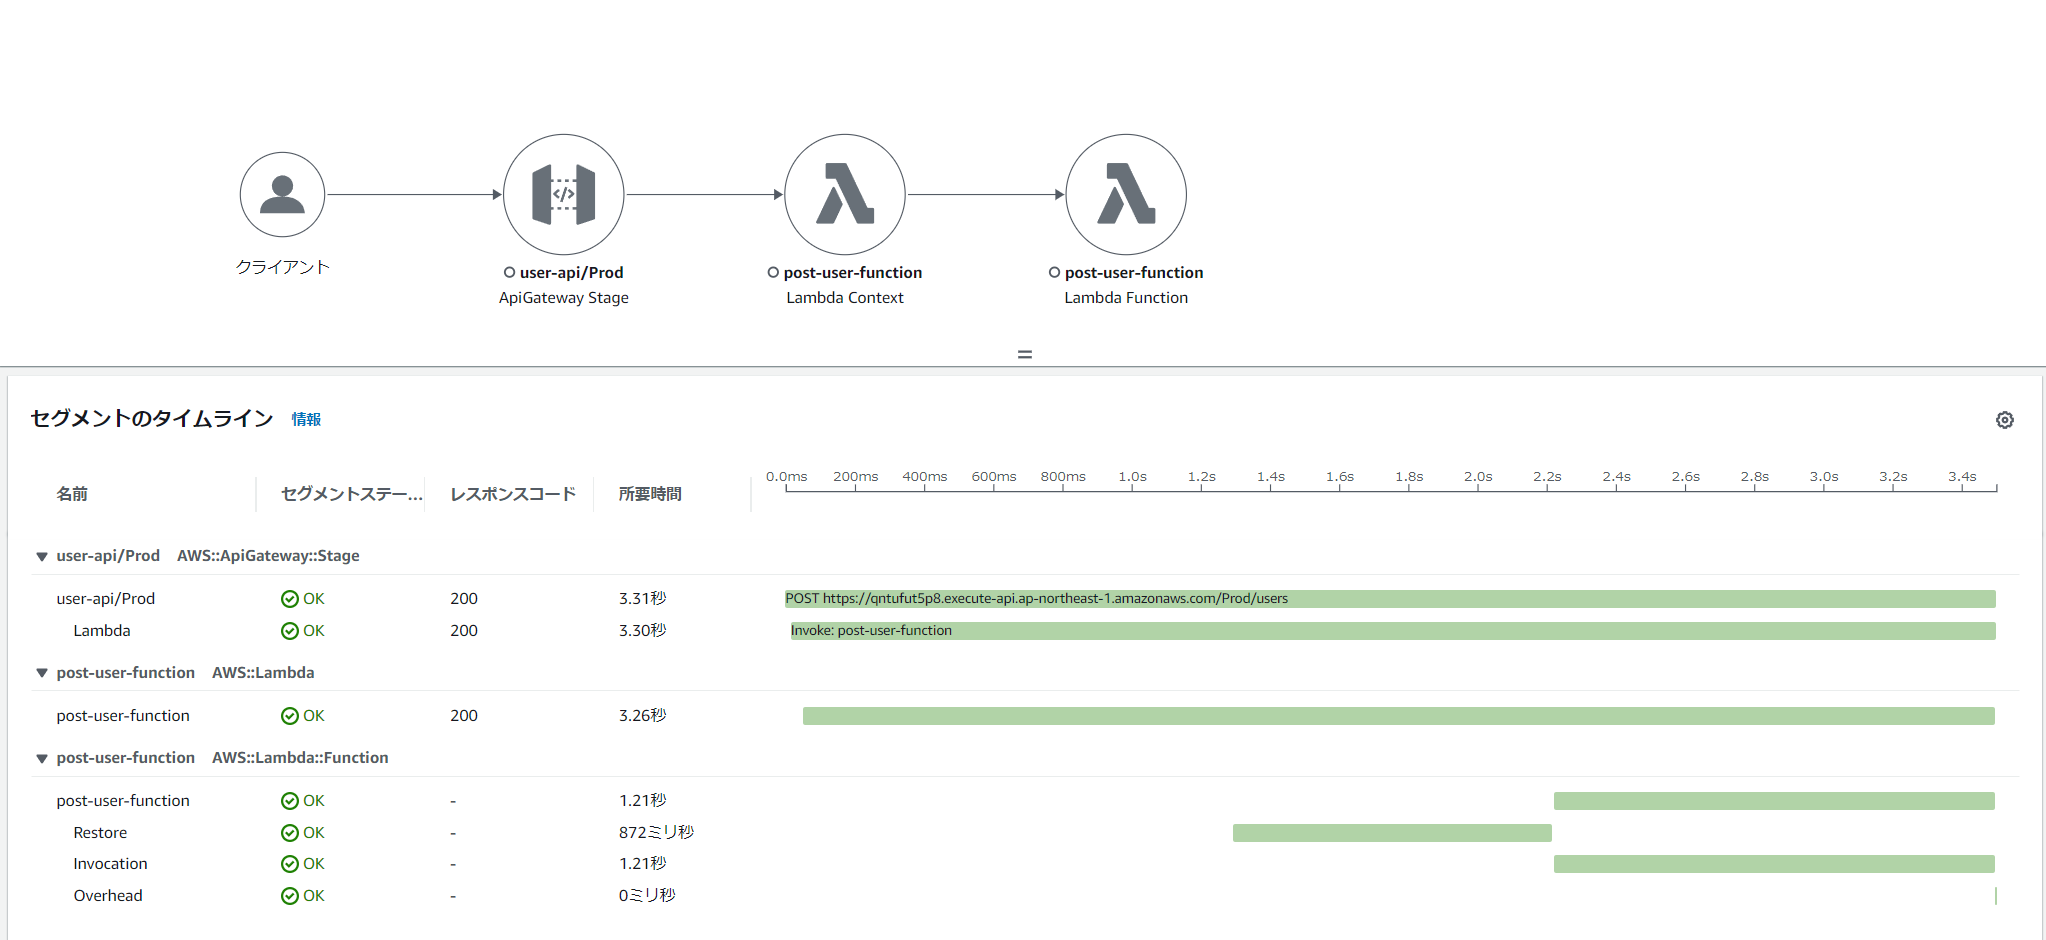
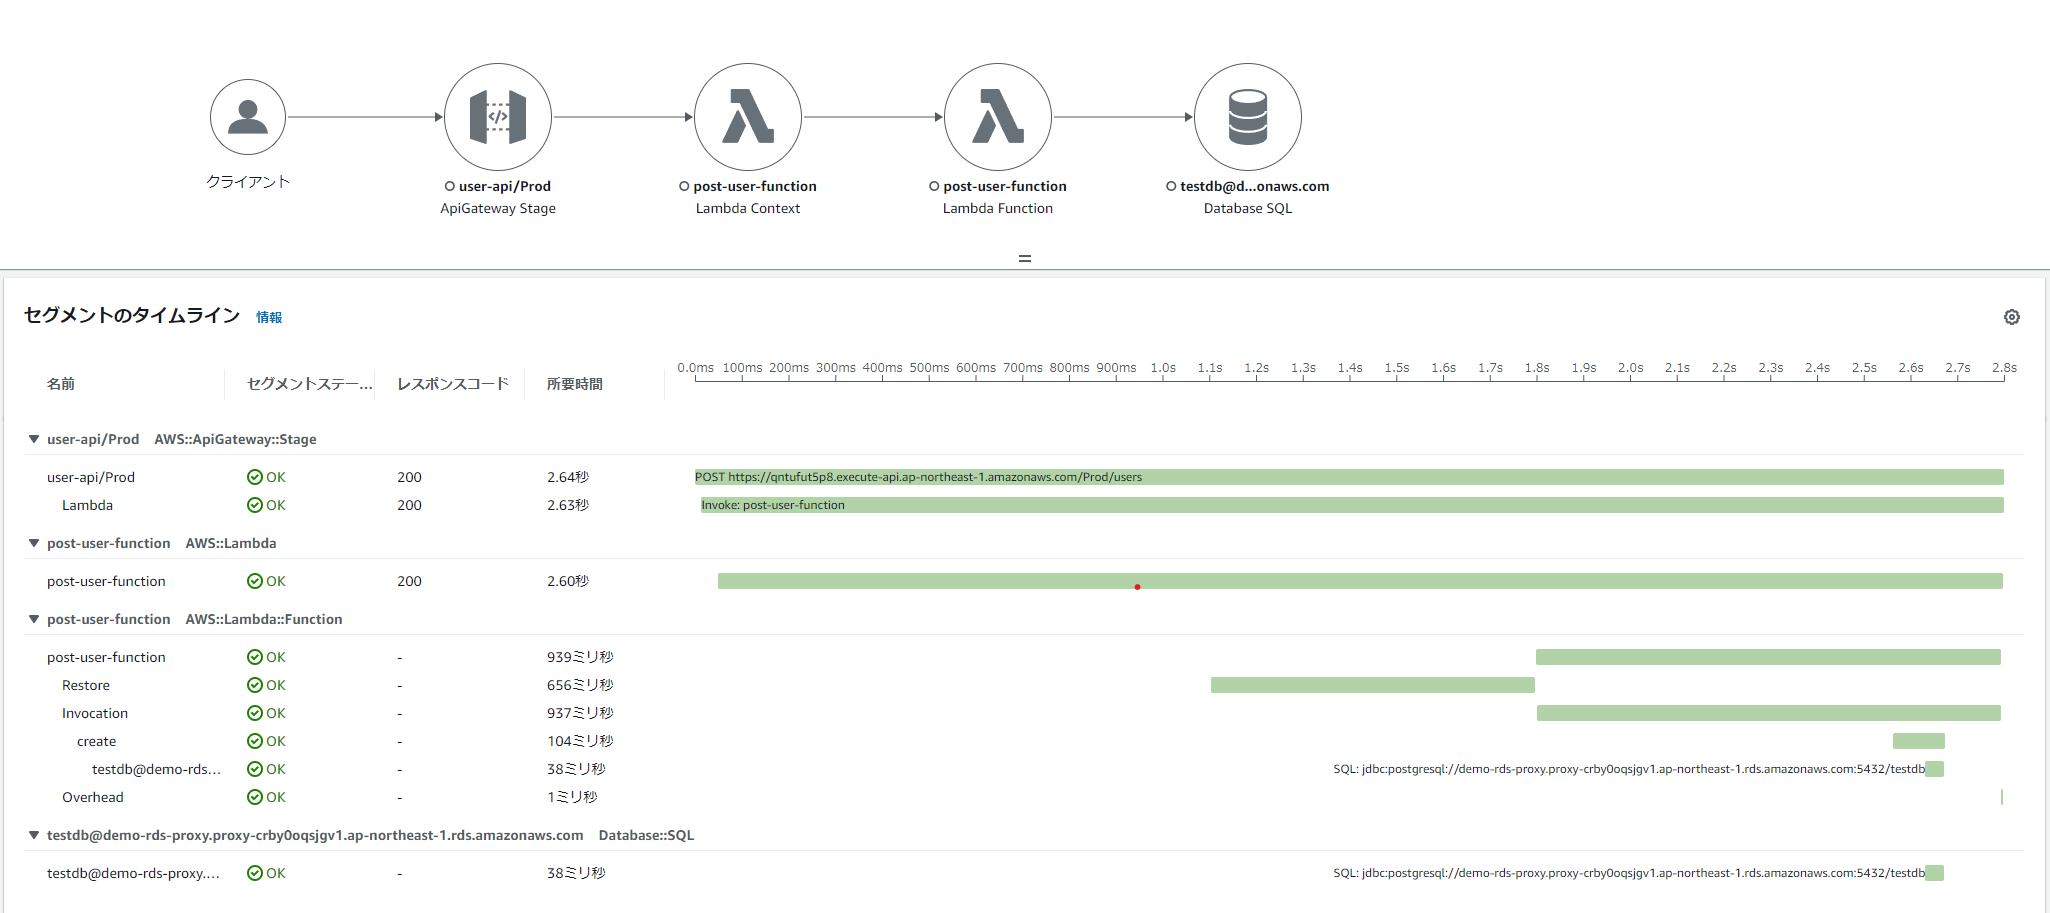
X-Ray対応

diff --git a/src/main/java/com/example/fw/common/dynamodb/config/DynamoDBProdConfig.java b/src/main/java/com/example/fw/common/dynamodb/config/DynamoDBProdConfig.java
@@ -25,17 +25,14 @@ public class DynamoDBProdConfig {
     public DynamoDbClient dynamoDbClient(DynamoDBConfigurationProperties dynamoDBConfigurationProperties) {
         Region region = Region.of(dynamoDBConfigurationProperties.getRegion());
         return DynamoDbClient.builder().region(region)
-                
-                //TODO: 現状　SQLトレース対応しようとすると、X-Rayでエラーが出るので対応検討中
-                //java.lang.ClassCastException: class com.amazonaws.xray.entities.SegmentImpl cannot be cast to class com.amazonaws.xray.entities.Subsegment 
                 // 個別にDynamoDBへのAWS SDKの呼び出しをトレーシングできるように設定
-                //.overrideConfiguration(
-                //        ClientOverrideConfiguration.builder().addExecutionInterceptor(new TracingInterceptor()).build())
+                .overrideConfiguration(
+                        ClientOverrideConfiguration.builder().addExecutionInterceptor(new TracingInterceptor()).build())
                 .build();
     }
 
-    //TODO: DynamoDbAsyncClient、DynamoDbEnhancedAsyncClientを使った非同期プログラミングも検討する    
-    // https://github.com/aws-samples/aws-lambda-java-workshop/blob/main/labs/unicorn-stock-broker/src/main/java/com/unicorn/broker/data/TransactionRepository.java  
+    // TODO: DynamoDbAsyncClient、DynamoDbEnhancedAsyncClientを使った非同期プログラミングも検討する
+    // https://github.com/aws-samples/aws-lambda-java-workshop/blob/main/labs/unicorn-stock-broker/src/main/java/com/unicorn/broker/data/TransactionRepository.java
     // https://docs.aws.amazon.com/ja_jp/sdk-for-java/latest/developer-guide/ddb-en-client-getting-started-dynamodbTable.html
 
 }

diff --git a/src/main/java/com/example/backend/XRayConfig.java b/src/main/java/com/example/backend/XRayConfig.java
@@ -1,22 +1,27 @@
 package com.example.backend;
 
+import org.springframework.context.annotation.Bean;
 import org.springframework.context.annotation.Configuration;
 import org.springframework.context.annotation.Import;
 
-import com.amazonaws.xray.AWSXRayRecorderBuilder;
+import com.example.fw.common.aspect.XRayAspect;
 import com.example.fw.common.jdbc.config.XRayJDBCConfig;
+
 
 /**
  * X-Rayの設定クラス
  *
  */
-
-//TODO: 現状　SQLトレース対応しようとすると、X-Rayでエラーが出るので対応検討中
-//java.lang.ClassCastException: class com.amazonaws.xray.entities.SegmentImpl cannot be cast to class com.amazonaws.xray.entities.Subsegment 
-
-// X-Ray機能の追加、JDBCのX-Rayトレース機能の追加
-//@Import({ XRayJDBCConfig.class })
+// JDBCのX-Rayトレース機能の追加
+@Import({ XRayJDBCConfig.class })
 @Configuration
 public class XRayConfig {
 
+    /**
+     * AWS X-RayのAOP設定
+     */
+    @Bean
+    public XRayAspect xRayAspect() {
+        return new XRayAspect();
+    }
 }

diff --git a/src/main/java/com/example/backend/app/handler/user/UserGetAPIHandler.java b/src/main/java/com/example/backend/app/handler/user/UserGetAPIHandler.java
@@ -6,7 +6,6 @@ import org.springframework.stereotype.Component;
 
 import com.amazonaws.services.lambda.runtime.events.APIGatewayProxyRequestEvent;
 import com.amazonaws.services.lambda.runtime.events.APIGatewayProxyResponseEvent;
-import com.amazonaws.xray.AWSXRay;
 import com.example.backend.app.handler.common.APIUtil;
 import com.example.backend.domain.model.User;
 import com.example.backend.domain.service.user.UserService;
@@ -25,9 +24,7 @@ public class UserGetAPIHandler implements Function<APIGatewayProxyRequestEvent, 
     private final ObjectMapper objectMapper;
 
     @Override
-    public APIGatewayProxyResponseEvent apply(APIGatewayProxyRequestEvent request) {
-        AWSXRay.beginSegment("user-get-api");
-        
+    public APIGatewayProxyResponseEvent apply(APIGatewayProxyRequestEvent request) {       
         String userId = request.getPathParameters().get("user_id");
         // サービスの実行
         User user = userService.findOne(userId);

diff --git a/src/main/java/com/example/backend/app/handler/user/UserPostAPIHandler.java b/src/main/java/com/example/backend/app/handler/user/UserPostAPIHandler.java
@@ -5,7 +5,6 @@ import java.util.function.Function;
 import org.springframework.stereotype.Component;
 
 import com.amazonaws.services.lambda.runtime.events.APIGatewayProxyResponseEvent;
-import com.amazonaws.xray.AWSXRay;
 import com.example.backend.app.handler.common.APIUtil;
 import com.example.backend.domain.model.User;
 import com.example.backend.domain.service.user.UserService;
@@ -24,9 +23,7 @@ public class UserPostAPIHandler implements Function<UserResource, APIGatewayProx
     private final ObjectMapper objectMapper;
 
     @Override
-    public APIGatewayProxyResponseEvent apply(UserResource resource) {
-        AWSXRay.beginSegment("user-post-api");
-        
+    public APIGatewayProxyResponseEvent apply(UserResource resource) {        
         User user = User.builder().name(resource.getUserName()).build();
         // サービスの実行
         User newUser = userService.create(user);

diff --git a/src/main/java/com/example/backend/app/handler/todo/TodoGetAPIHandler.java b/src/main/java/com/example/backend/app/handler/todo/TodoGetAPIHandler.java
@@ -6,7 +6,6 @@ import org.springframework.stereotype.Component;
 
 import com.amazonaws.services.lambda.runtime.events.APIGatewayProxyRequestEvent;
 import com.amazonaws.services.lambda.runtime.events.APIGatewayProxyResponseEvent;
-import com.amazonaws.xray.AWSXRay;
 import com.example.backend.app.handler.common.APIUtil;
 import com.example.backend.domain.model.Todo;
 import com.example.backend.domain.service.todo.TodoService;
@@ -26,8 +25,7 @@ public class TodoGetAPIHandler implements Function<APIGatewayProxyRequestEvent, 
 
     @Override
     public APIGatewayProxyResponseEvent apply(APIGatewayProxyRequestEvent request) {
-        AWSXRay.beginSegment("todo-get-api");
-        
+       
         String todoId = request.getPathParameters().get("todo_id");
         // サービスの実行
         Todo todo = todoService.findOne(todoId);

diff --git a/src/main/java/com/example/backend/app/handler/todo/TodoPostAPIHandler.java b/src/main/java/com/example/backend/app/handler/todo/TodoPostAPIHandler.java
@@ -5,7 +5,6 @@ import java.util.function.Function;
 import org.springframework.stereotype.Component;
 
 import com.amazonaws.services.lambda.runtime.events.APIGatewayProxyResponseEvent;
-import com.amazonaws.xray.AWSXRay;
 import com.example.backend.app.handler.common.APIUtil;
 import com.example.backend.domain.model.Todo;
 import com.example.backend.domain.service.todo.TodoService;
@@ -25,7 +24,6 @@ public class TodoPostAPIHandler implements Function<TodoResource, APIGatewayProx
 
     @Override
     public APIGatewayProxyResponseEvent apply(TodoResource resource) {
-        AWSXRay.beginSegment("todo-post-api");
         
         Todo todo = Todo.builder().title(resource.getTodoTitle()).build();
         // サービスの実行

diff --git a/src/main/java/com/example/fw/common/aspect/XRayAspect.java b/src/main/java/com/example/fw/common/aspect/XRayAspect.java
@@ -1,0 +1,18 @@
+package com.example.fw.common.aspect;
+
+import org.aspectj.lang.annotation.Aspect;
+import org.aspectj.lang.annotation.Pointcut;
+
+import com.amazonaws.xray.spring.aop.BaseAbstractXRayInterceptor;
+
+@Aspect
+public class XRayAspect extends BaseAbstractXRayInterceptor {
+    /**
+     * XRayEnabledアノテーションが付けられたどのクラスをトレースするかポイントカットを定義
+     */
+    @Override
+    @Pointcut("@within(com.amazonaws.xray.spring.aop.XRayEnabled) " + " && execution(* com.example..*.*(..))")
+    protected void xrayEnabledClasses() {
+    }
+
+}

diff --git a/src/main/java/com/example/backend/infra/repository/TodoRepositoryImplByDynamoDB.java b/src/main/java/com/example/backend/infra/repository/TodoRepositoryImplByDynamoDB.java
@@ -5,6 +5,7 @@ import java.util.UUID;
 import org.springframework.beans.factory.annotation.Value;
 import org.springframework.stereotype.Repository;
 
+import com.amazonaws.xray.spring.aop.XRayEnabled;
 import com.example.backend.domain.model.Todo;
 import com.example.backend.domain.repository.TodoRepository;
 
@@ -19,6 +20,7 @@ import software.amazon.awssdk.enhanced.dynamodb.TableSchema;
  * DynamoDBにアクセスするTodoRepository実装クラス
  *
  */
+@XRayEnabled
 @Repository
 @RequiredArgsConstructor
 public class TodoRepositoryImplByDynamoDB implements TodoRepository {

diff --git a/src/main/java/com/example/backend/infra/repository/UserRepositoryImplByDynamoDB.java b/src/main/java/com/example/backend/infra/repository/UserRepositoryImplByDynamoDB.java
@@ -2,6 +2,7 @@ package com.example.backend.infra.repository;
 
 import org.springframework.beans.factory.annotation.Value;
 
+import com.amazonaws.xray.spring.aop.XRayEnabled;
 import com.example.backend.domain.model.User;
 import com.example.backend.domain.repository.UserRepository;
 
@@ -15,6 +16,7 @@ import software.amazon.awssdk.enhanced.dynamodb.TableSchema;
 /**
  * DynamoDBにアクセスするUserRepository実装クラス
  */
+@XRayEnabled
 //MyBatis版に置き換えたため未使用
 //@Repository
 @RequiredArgsConstructor

diff --git a/src/main/java/com/example/backend/UserServiceApplication.java b/src/main/java/com/example/backend/UserServiceApplication.java
@@ -3,13 +3,10 @@ package com.example.backend;
 import org.springframework.boot.SpringApplication;
 import org.springframework.boot.autoconfigure.SpringBootApplication;
 
-import com.amazonaws.xray.AWSXRay;
-
 @SpringBootApplication
 public class UserServiceApplication {
     
-    public static void main(String[] args) {
-        AWSXRay.beginSegment("sample-lambda-java");
+    public static void main(String[] args) {        
         SpringApplication.run(UserServiceApplication.class, args);
     }
 }

diff --git a/src/main/java/com/example/backend/domain/service/todo/TodoServiceImpl.java b/src/main/java/com/example/backend/domain/service/todo/TodoServiceImpl.java
@@ -2,6 +2,7 @@ package com.example.backend.domain.service.todo;
 
 import org.springframework.stereotype.Service;
 
+import com.amazonaws.xray.spring.aop.XRayEnabled;
 import com.example.backend.domain.model.Todo;
 import com.example.backend.domain.repository.TodoRepository;
 
@@ -11,6 +12,7 @@ import lombok.RequiredArgsConstructor;
  * TodoServiceの実装クラス
  *
  */
+@XRayEnabled
 @Service
 @RequiredArgsConstructor
 public class TodoServiceImpl implements TodoService {

diff --git a/src/main/java/com/example/backend/domain/service/user/UserServiceImpl.java b/src/main/java/com/example/backend/domain/service/user/UserServiceImpl.java
@@ -5,6 +5,7 @@ import java.util.UUID;
 import org.springframework.stereotype.Service;
 import org.springframework.transaction.annotation.Transactional;
 
+import com.amazonaws.xray.spring.aop.XRayEnabled;
 import com.example.backend.domain.model.User;
 import com.example.backend.domain.repository.UserRepository;
 
@@ -15,6 +16,7 @@ import lombok.RequiredArgsConstructor;
  * UserServiceの実装クラス
  *
  */
+@XRayEnabled
 @Transactional
 @Service
 @RequiredArgsConstructor
